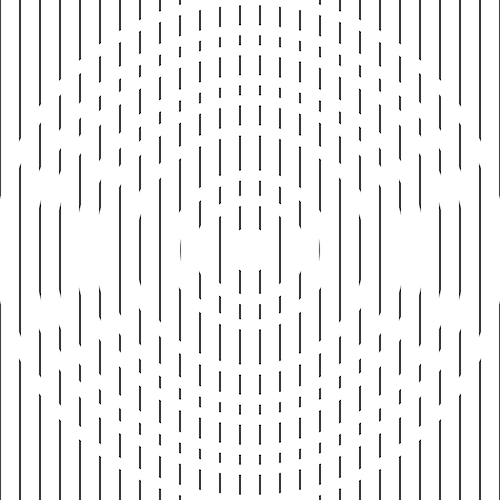
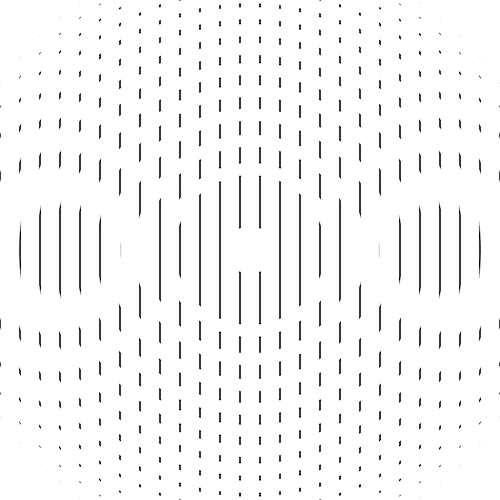
removed old hidden_circles version
also added code refinements to new version

diff --git a/repeat/p5js/hidden-circles/index.js b/repeat/p5js/hidden-circles/index.js
@@ -1,4 +1,6 @@
-var dis = 20;
+var distance = 20;
+var n = 80;
+var radius = 100;
 
 function setup() {
   var canvas = createCanvas(500, 500);
@@ -6,9 +8,7 @@ function setup() {
   canvas.parent('sketch');
 }
 
-function drawLines(count, distance) {
-  distance = distance || 20;
-
+function drawLines(count) {
   for (var i = 0; i < count; i++) {
      var x = i * distance;
 
@@ -16,28 +16,21 @@ function drawLines(count, distance) {
   }
 }
 
-function drawEllipsis(height) {
-  strokeWeight(10);
-  stroke(255, 255, 255);
-  noFill();
-  ellipse(250, 250, height);
-}
-
 function draw() {
+  noLoop();
   stroke(0);
   strokeWeight(2);
-  drawLines(100, dis);
+  drawLines(200);
 
-  drawEllipsis(100)
+  for(var i = n; i < 500; i++) {
+    radius = (radius + i) * 0.9;
 
-  fill(255);
-  ellipse(250, 250, 35);
+    fill(255);
+    ellipse(250, 250, 35);
 
-  drawEllipsis(150);
-  drawEllipsis(240);
-  drawEllipsis(300);
-  drawEllipsis(340);
-  drawEllipsis(400);
-  drawEllipsis(440);
-  drawEllipsis(500);
+    strokeWeight(12);
+    stroke(255);
+    noFill();
+    ellipse(250, 250, radius);
+  }
 }

diff --git a/repeat/p5js/hidden-circles/index.html b/repeat/p5js/hidden-circles/index.html
@@ -1,0 +1,20 @@
+<!doctype html>
+<html lang="en">
+  <head>
+    <meta http-equiv="Content-Type" content="text/html; charset=utf-8">
+    <style>
+    #sketch{
+      display: flex;
+      justify-content:center;
+      align-items:center;
+      height:100vh;
+    }
+    </style>
+    <!-- <link rel="stylesheet" type="text/css" href="assets/css/styles.css"> -->
+  </head>
+  <body>
+    <div id="sketch"></div>
+    <script type="text/javascript" src="https://cdn.jsdelivr.net/p5.js/0.5.8/p5.min.js"></script>
+    <script type="text/javascript" src="index.js"></script>
+  </body>
+</html>

diff --git a/repeat/p5js/hidden-circles/index.md b/repeat/p5js/hidden-circles/index.md
@@ -2,8 +2,8 @@
 layout: p5js
 author: Natalie Schreiber
 author-url: https://github.com/natascher
-title: Hidden Circles
+title: Hidden Circles Pt.2
 tags: [P5.js, repeat, Law of Connected Elements]
-permalink: /repeat/hidden-circles/
+permalink: /repeat/hidden-circles2/
 summary: Circles creating patterns on a simple grid.
 ---
